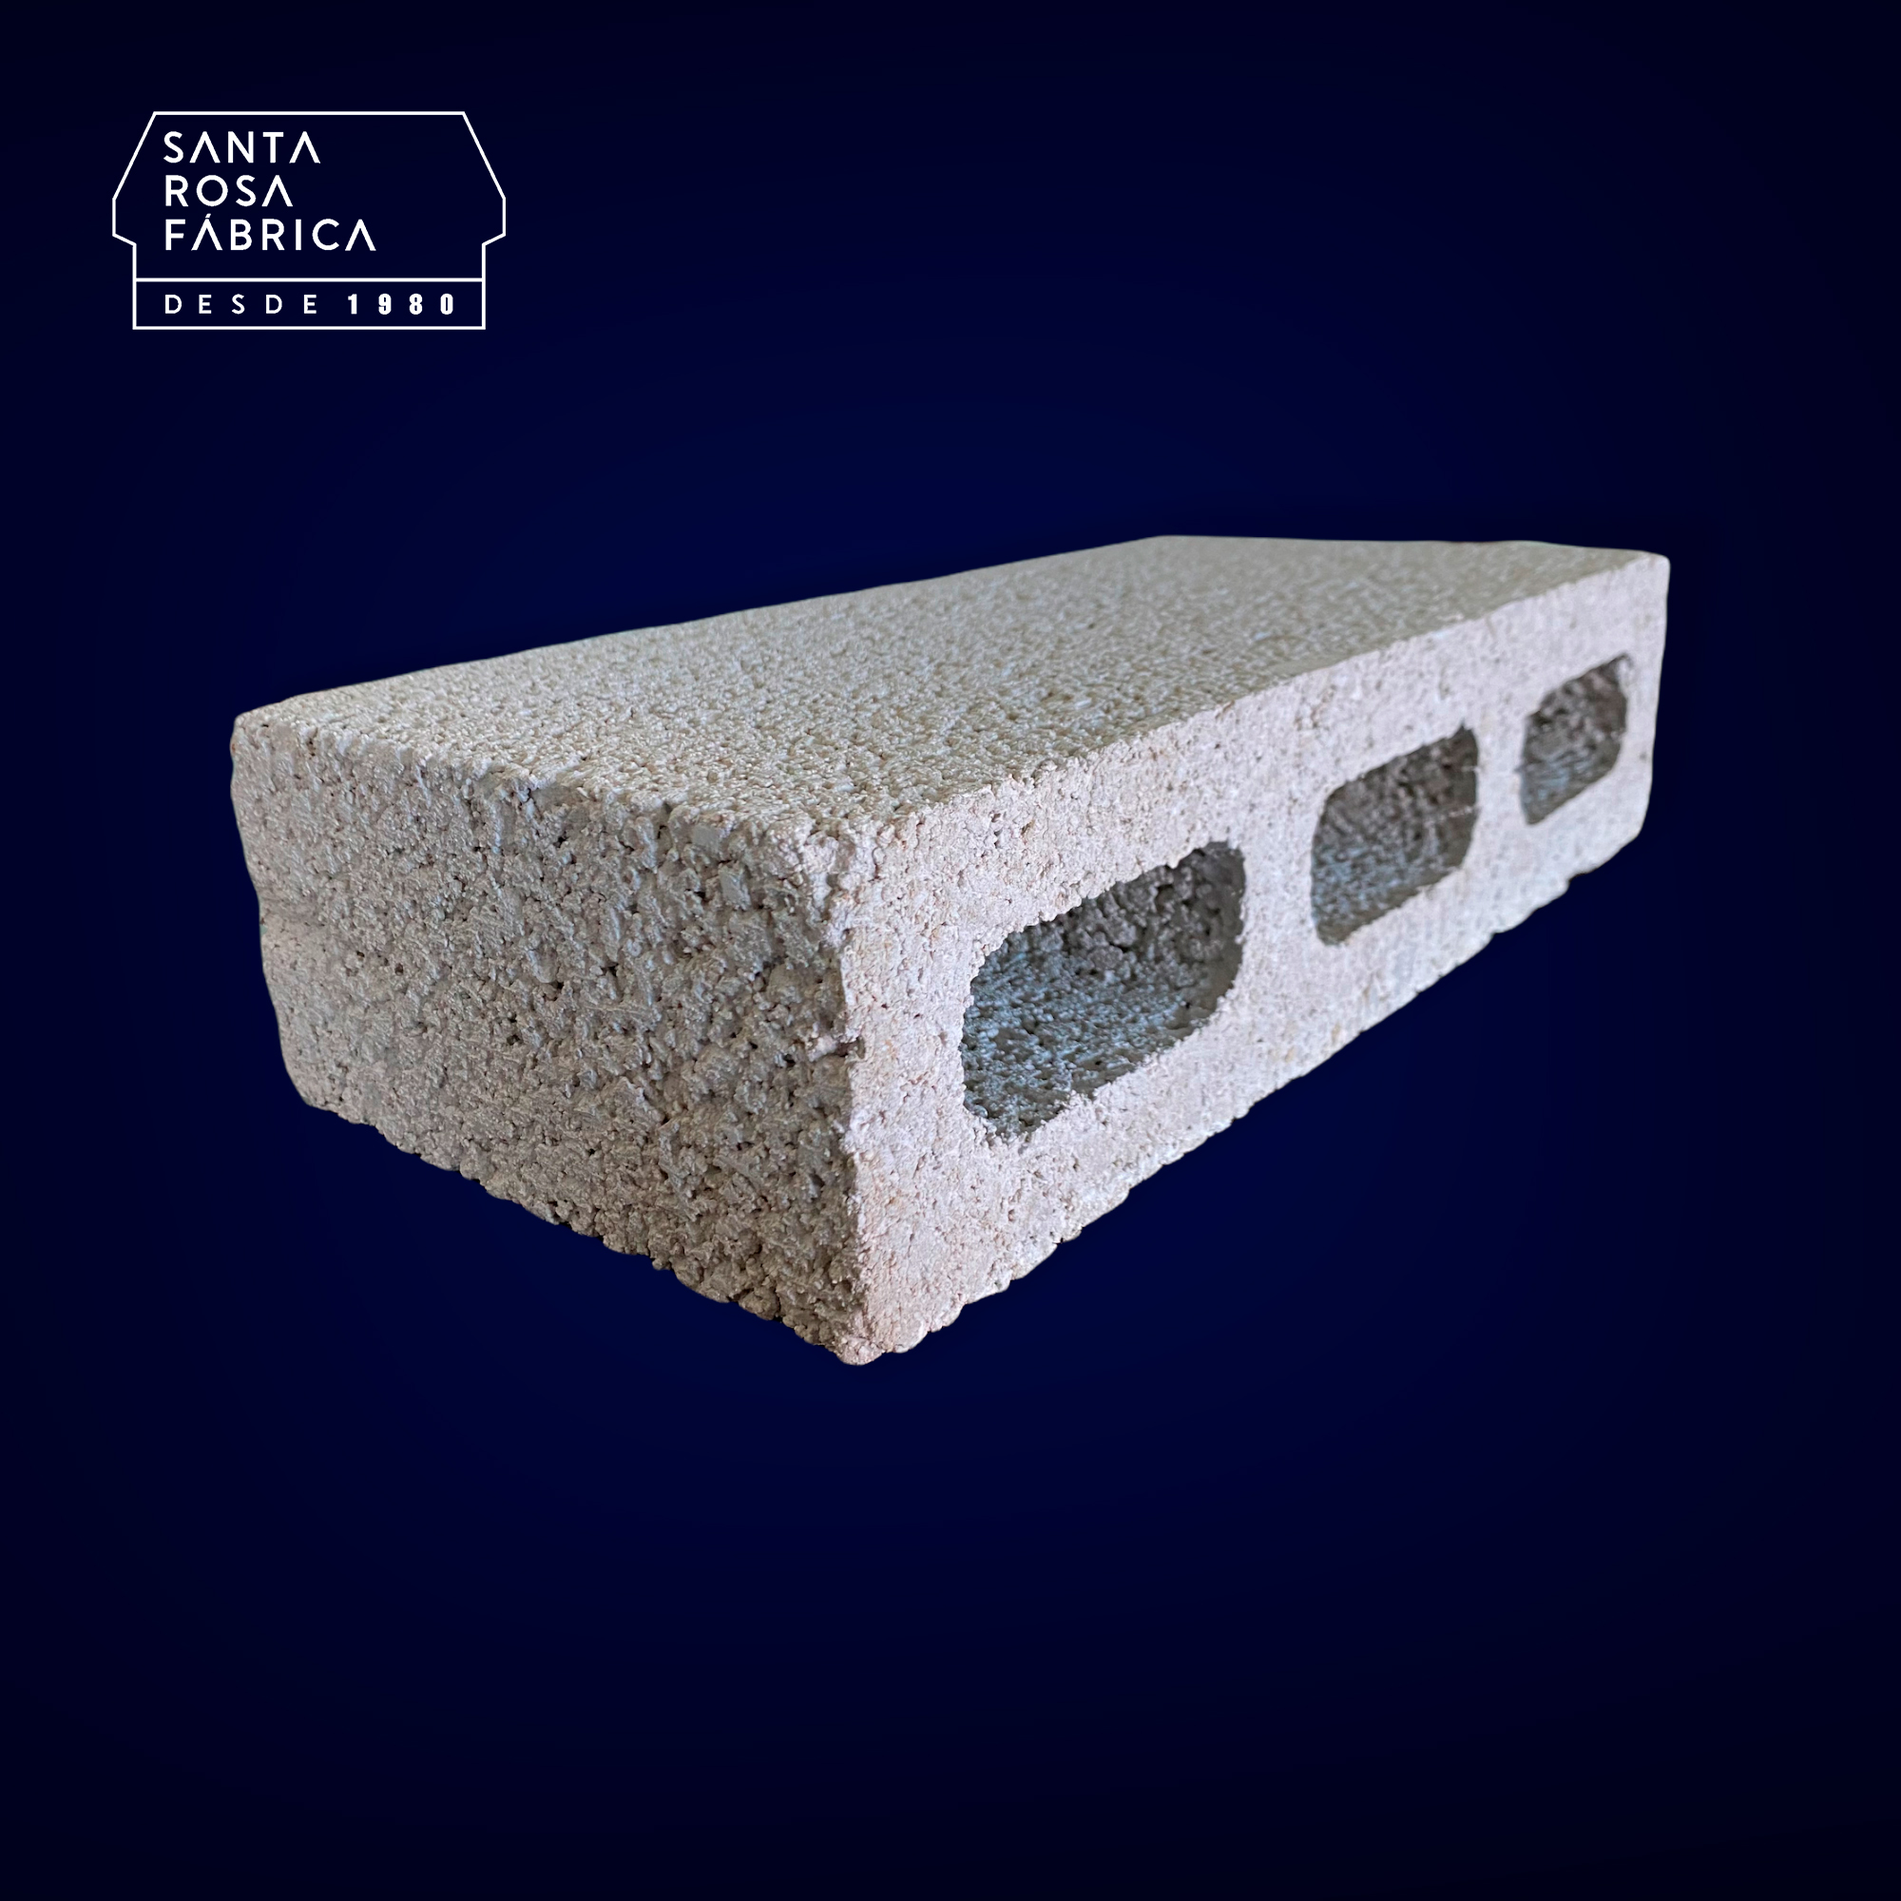
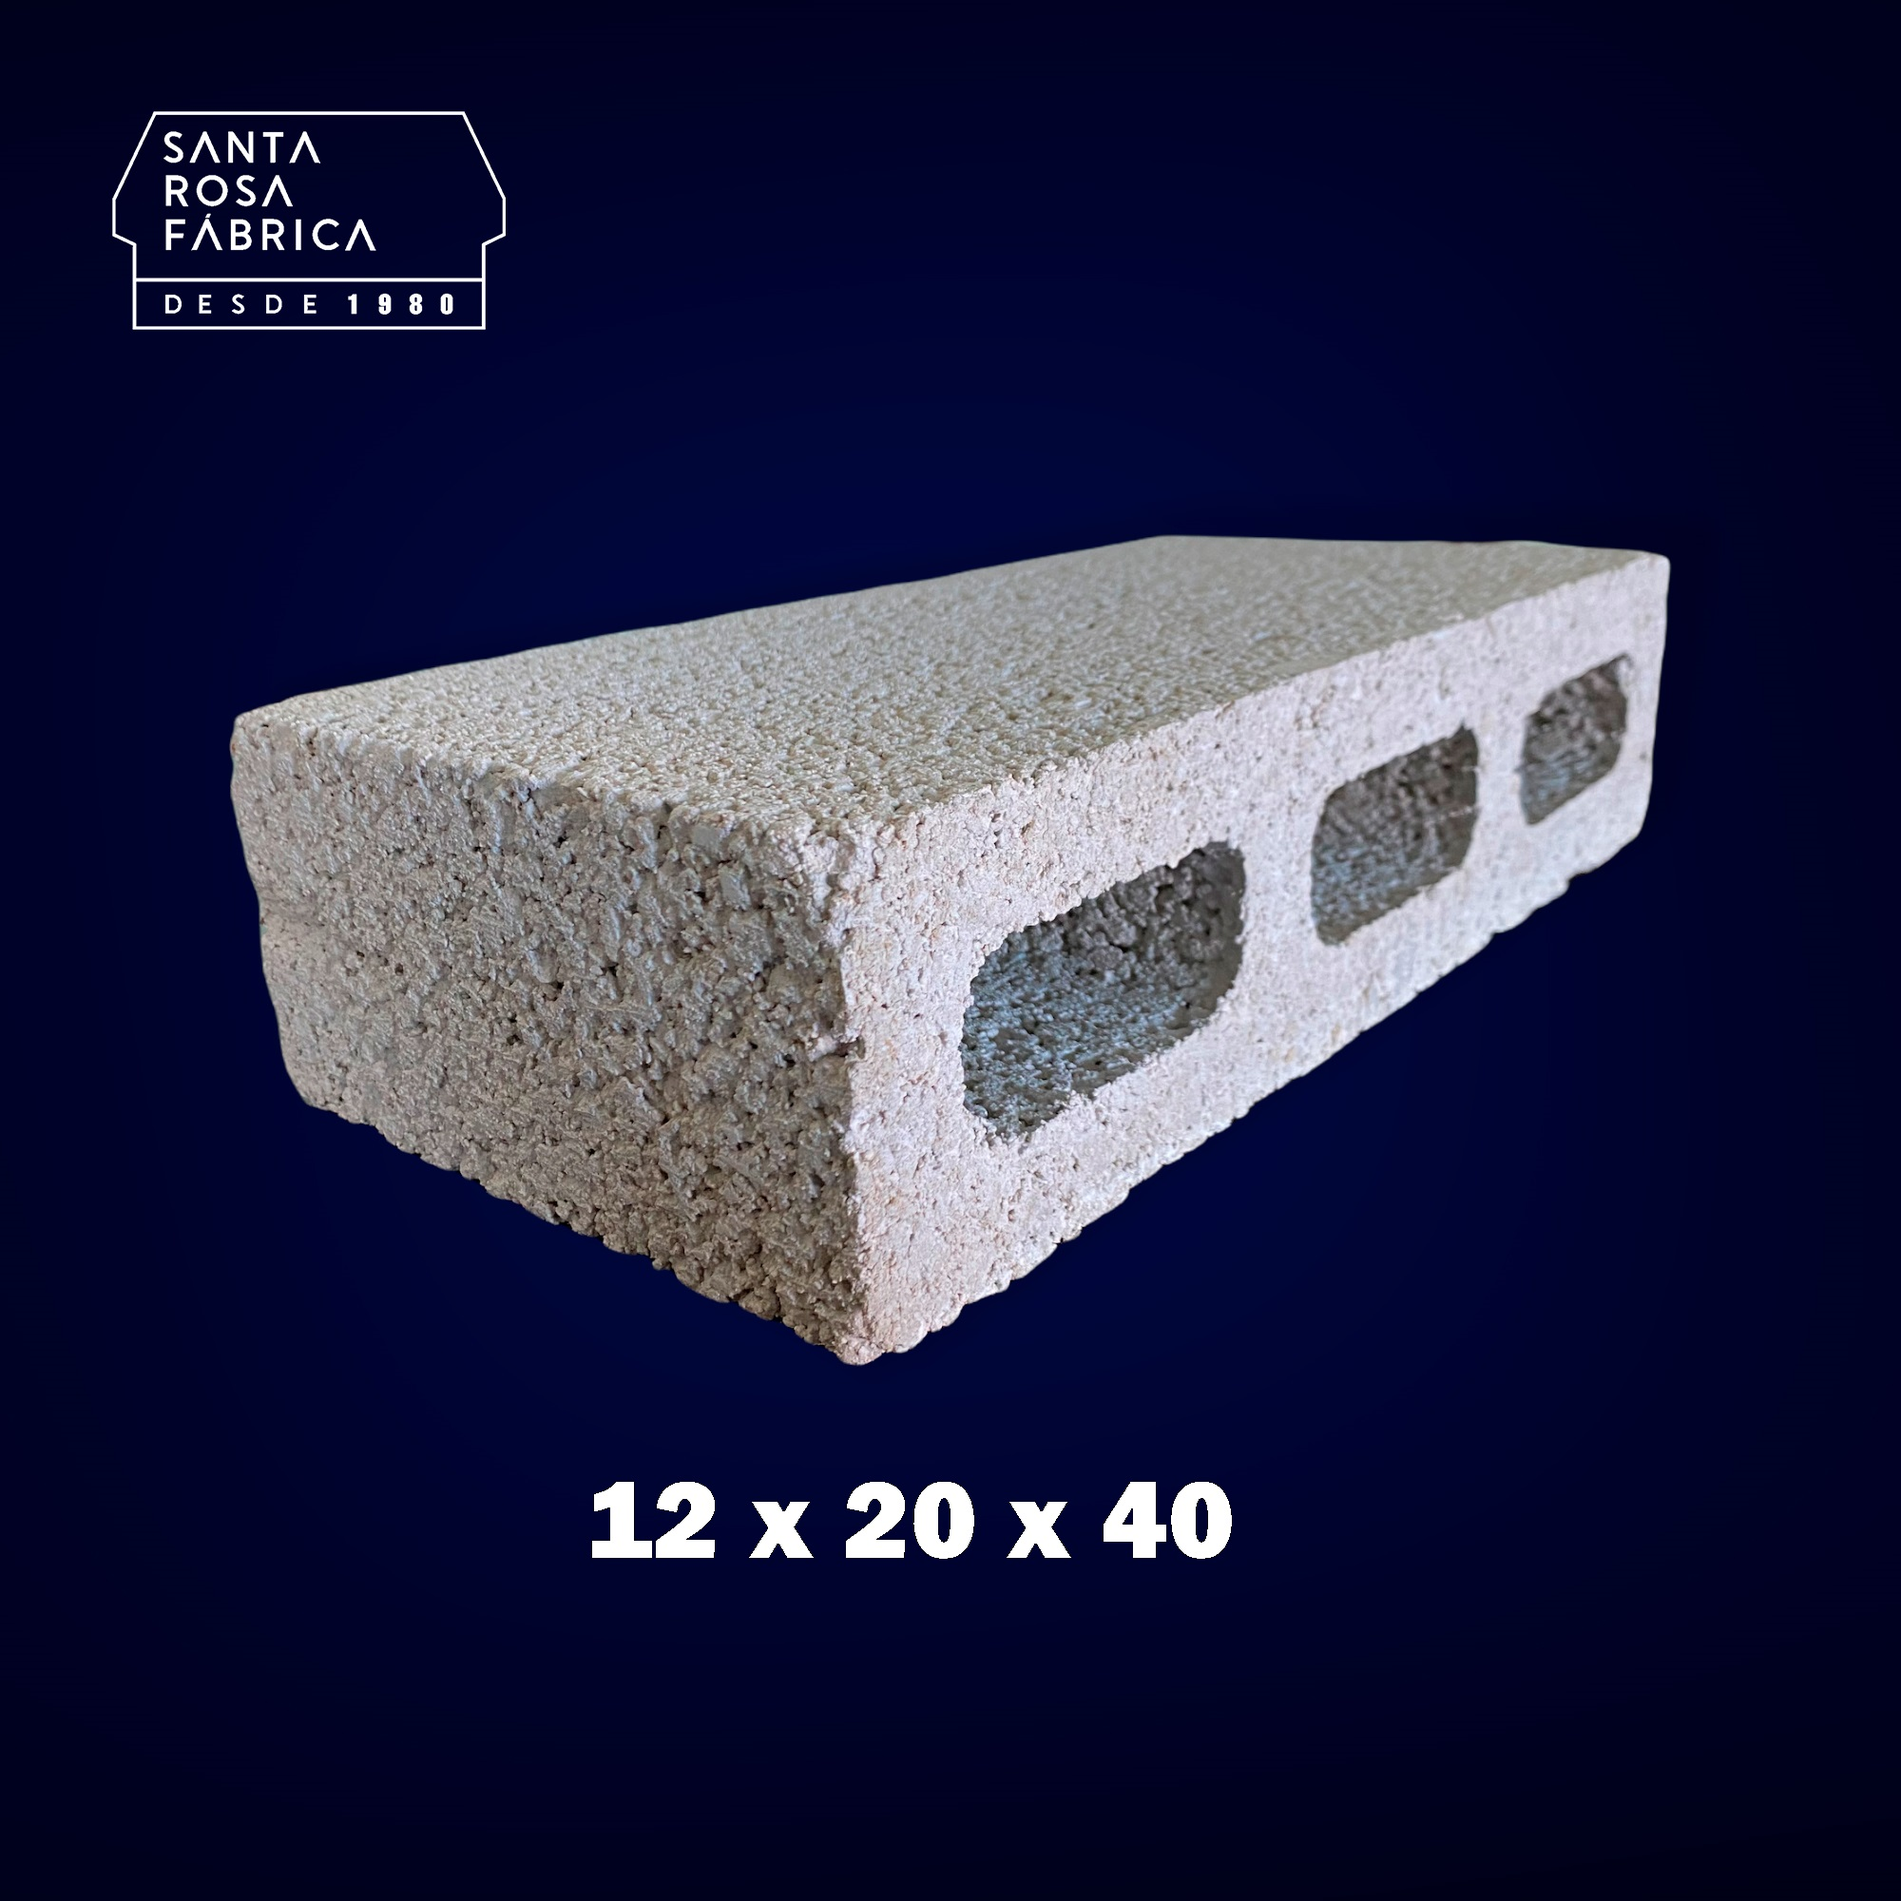
Actualizacion de Css y productos
se cambio el Css del proyecto, Se actualizaron los productos Vigas concreto, Bovedilla, poliestireno, caseton y placa, block de concreto

Changed region(s): [[0.31, 0.775, 0.651, 0.837]]

diff --git a/Productos-detalle-viga.html b/Productos-detalle-viga.html
@@ -122,15 +122,18 @@
                  <a href="assets/img/portfolio/Viga1.jpg" data-gall="portfolioGallery" class="portfolio-lightbox" title="Ver imagen"><img src="assets/img/portfolio/Viga1.jpg" class="img-fluid" alt=""></a>-->
 
                  <div class="swiper-slide">
-                  <a href="assets/img/portfolio/Viga1.jpg" data-gallery="portfolioGallery" class="portfolio-lightbox" title=""><img src="assets/img/portfolio/Viga1.jpg" title="Ver Imagen" class="img-fluid" alt=""></a>
+                  <a href="assets/img/portfolio/Viga1.png" data-gallery="portfolioGallery" class="portfolio-lightbox" title=""><img src="assets/img/portfolio/Viga1.png" title="Ver Imagen" class="img-fluid" alt=""></a>
                 </div>
 
                 <div class="swiper-slide">
-                  <a href="assets/img/portfolio/Viga2.jpg" data-gallery="portfolioGallery" class="portfolio-lightbox" title=""><img src="assets/img/portfolio/Viga2.jpg" title="Ver Imagen" class="img-fluid" alt=""></a>
+                  <a href="assets/img/portfolio/Viga2.png" data-gallery="portfolioGallery" class="portfolio-lightbox" title=""><img src="assets/img/portfolio/Viga2.png" title="Ver Imagen" class="img-fluid" alt=""></a>
                 </div>
 
                 <div class="swiper-slide">
                   <a href="assets/img/portfolio/Viga3.jpg" data-gallery="portfolioGallery" class="portfolio-lightbox" title=""><img src="assets/img/portfolio/Viga3.jpg" title="Ver Imagen" class="img-fluid" alt=""></a>
+                </div>
+                <div class="swiper-slide">
+                  <a href="assets/img/portfolio/Viga4.jpg" data-gallery="portfolioGallery" class="portfolio-lightbox" title=""><img src="assets/img/portfolio/Viga4.jpg" title="Ver Imagen" class="img-fluid" alt=""></a>
                 </div>
                 
               </div>
@@ -155,21 +158,17 @@
                 Las viguetas son elementos de concreto hidráulico responsables de la calidad de la losa y cuentan con una resistencia de 350 kg/cm2 y acero de A.R.F. de 17,500 Kg/cm2 de 5 mm de diámetro.<br>
 
                 <ul>
-                  <li><i class="bi bi-check2-circle"></i> <strong>VIGUETA DE 12 </strong><br>
-                    Peso: 25 kg/ml<br>
-                    Metros por Ton: 47<br>
-                    Medidas: 12 x 4 x 13.2<br>
+                  <li><i class="bi bi-check2-circle"></i> <strong>TIPOS DE VIGAS </strong><br>
+                    12-3<br>
+                    12-4<br>
+                    12-5<br>
+                    20-6<br>
                     
-                  </li>
-                  <li><i class="bi bi-check2-circle"></i> <strong>VIGUETA DE 20 </strong><br>
-                    Peso: 35 kg/ml<br>
-                    Metros por Ton: 33<br>
-                    Medidas: 20 x 4 x 13.2<br>
                   </li>
                   
                 </ul>
                 <br>
-                **En las imagenes encontrara la tabla de resistencias**
+                <!--**En las imagenes encontrara la tabla de resistencias**-->
               </p>
 
                     <!-- ======= BOTONES COTIZADOR y REGRESAR DEL PRODUCTO ======= -->

diff --git a/Productos-detalle-block.html b/Productos-detalle-block.html
@@ -126,11 +126,20 @@
                 </div>
 
                 <div class="swiper-slide">
-                  <a href="assets/img/portfolio/Block2.jpg" data-gallery="portfolioGallery" class="portfolio-lightbox" title=""><img src="assets/img/portfolio/Block2.jpg" title="Ver Imagen" class="img-fluid" alt=""></a>
+                  <a href="assets/img/portfolio/Block5.jpg" data-gallery="portfolioGallery" class="portfolio-lightbox" title=""><img src="assets/img/portfolio/Block5.jpg" title="Ver Imagen" class="img-fluid" alt=""></a>
                 </div>
 
                 <div class="swiper-slide">
-                  <a href="assets/img/portfolio/Block2.jpg" data-gallery="portfolioGallery" class="portfolio-lightbox" title=""><img src="assets/img/portfolio/Block3.jpg" title="Ver Imagen" class="img-fluid" alt=""></a>
+                  <a href="assets/img/portfolio/Block6.jpg" data-gallery="portfolioGallery" class="portfolio-lightbox" title=""><img src="assets/img/portfolio/Block6.jpg" title="Ver Imagen" class="img-fluid" alt=""></a>
+                </div>
+                <div class="swiper-slide">
+                  <a href="assets/img/portfolio/Block2.jpg" data-gallery="portfolioGallery" class="portfolio-lightbox" title=""><img src="assets/img/portfolio/Block2.jpg" title="Ver Imagen" class="img-fluid" alt=""></a>
+                </div>
+                <div class="swiper-slide">
+                  <a href="assets/img/portfolio/Block3.jpg" data-gallery="portfolioGallery" class="portfolio-lightbox" title=""><img src="assets/img/portfolio/Block3.jpg" title="Ver Imagen" class="img-fluid" alt=""></a>
+                </div>
+                <div class="swiper-slide">
+                  <a href="assets/img/portfolio/Block7.jpg" data-gallery="portfolioGallery" class="portfolio-lightbox" title=""><img src="assets/img/portfolio/Block7.jpg" title="Ver Imagen" class="img-fluid" alt=""></a>
                 </div>
                 
               </div>
@@ -151,13 +160,29 @@
             <div class="portfolio-description">
               <!--<h2>This is an example of portfolio detail</h2>-->
               <p>
+                Los bloques son elaborados con
+calidad y alta resistencia de
+concreto hidráulico
+vibrocomprimido, agregados
+limpios, con granulometría
+controlada y cemento de la mas
+alta calidad.
+Exceden la resistencia de 40
+Kg/cm², y cumplen con las
+medidas reglamentarias de +-
+2mm, tomando en consideración
+los 10 mm de la junta de
+albañilería; esto de acuerdo a la
+norma Mexicana “NOM-C10-1986”,
+para bloques sub-tipo RBH-40.<p>
 <br>
 Medidas del Block:<br>
 <ul>
-  <li><i class="bi bi-check2-circle"></i> 10X20X40</li>
-  <li><i class="bi bi-check2-circle"></i> 12X20X40</li>
+  <li><i class="bi bi-check2-circle"></i> 30X20X40</li>
+  <li><i class="bi bi-check2-circle"></i> 20X20X40</li>
   <li><i class="bi bi-check2-circle"></i> 15X20X40</li>
-  <li><i class="bi bi-check2-circle"></i> 20X20X41</li>
+  <li><i class="bi bi-check2-circle"></i> 12X20X40</li>
+  <li><i class="bi bi-check2-circle"></i> 10X20X40</li>
 </ul>
 
               </p>

diff --git a/assets/css/style.css b/assets/css/style.css
@@ -59,15 +59,13 @@ h1, h2, h3, h4, h5, h6, .font-primary {
   transition: all 0.5s;
   z-index: 997;
   transition: all 0.5s;
-  /*background:rgba(15, 5, 107, 0.247);*/ /*Color secundario del header*/
+  background:rgba(2, 2, 80, 0.91);
 }
 
-#header.header-transparent {
-  background: none;
-}
+
 
 #header.header-scrolled {
-  background: rgb(255, 255, 255); /*Color del desplagado del menú*/
+  background: rgba(2, 2, 80, 0.91);
   height: 105px; /*Se cambia margen del logo para que se vea chingón*/
 }
 
@@ -89,7 +87,7 @@ h1, h2, h3, h4, h5, h6, .font-primary {
 #header .logo img {
   padding: 0;
   margin: 0;
-  max-height: 95px; /*Se cambia el tamaño del logo*/
+  max-height: 110px; /*Se cambia el tamaño del logo*/
 }
 
 #main {
@@ -122,7 +120,7 @@ h1, h2, h3, h4, h5, h6, .font-primary {
   padding: 10px 0 10px 30px;
   font-family: "Open Sans", sans-serif;
   font-size: 14px;
-  color: rgb(74, 74, 74);  /* Cambio de color de letras menu*/
+  color: #fff;
   white-space: nowrap;
   transition: 0.3s;
 }
@@ -132,7 +130,7 @@ h1, h2, h3, h4, h5, h6, .font-primary {
   margin-left: 5px;
 }
 .navbar a:hover, .navbar .active, .navbar .active:focus, .navbar li:hover > a {
-  color: #0fddaa; /*Cambio de focus de letras menu*/
+  color: #a2cce3;
 }
 .navbar .dropdown ul {
   display: block;
@@ -290,8 +288,8 @@ h1, h2, h3, h4, h5, h6, .font-primary {
   top: 0;
   width: 130%;
   height: 95%;
-  background: linear-gradient(to right, rgba(9, 48, 133, 0), rgba(245, 240, 240, 0)), url("../img/portada.JPG") center top no-repeat;
-  z-index: 0;
+  background:  url("../img/portada.JPG") center top no-repeat; /*se elimina el color azul de contraste con la imagen*/
+  z-index: -10;
   border-radius: 0 0 50% 50%;
   transform: translateX(-50%) rotate(0deg);
 }
@@ -302,7 +300,7 @@ h1, h2, h3, h4, h5, h6, .font-primary {
   top: 0;
   width: 130%;
   height: 96%;
-  background: #eee9e900;/*Colo de curva en hero*/
+  background: rgba(2, 2, 80, 0.91);/*color para atenuar la imagen principal*/
   opacity: 0.3;
   z-index: 0;
   border-radius: 0 0 50% 50%;
@@ -320,8 +318,8 @@ h1, h2, h3, h4, h5, h6, .font-primary {
   right: 0;
 }
 #hero h2 {
-  color: #fff; /*Color de Bienvenidos a Santa Rosa*/
-  margin-bottom: 1px;
+  color: #fff;
+  margin-bottom: 30px;
   font-size: 48px;
   font-weight: 700;
 }
@@ -329,8 +327,8 @@ h1, h2, h3, h4, h5, h6, .font-primary {
   width: 80%;
   -webkit-animation-delay: 0.4s;
   animation-delay: 0.4s;
-  margin: 0 auto 1px auto;
-  color: #fff; /*Color de parrafo de descripción*/
+  margin: 0 auto 30px auto;
+  color: #fff;
 }
 #hero .carousel-control-prev, #hero .carousel-control-next {
   width: 10%;
@@ -555,11 +553,6 @@ section {
 .services {
   padding-bottom: 20px;
 }
-
-#racki{
-  text-align: center;
-}
-
 .services .icon-box {
   padding: 30px;
   position: relative;

diff --git a/Productos.html b/Productos.html
@@ -118,7 +118,7 @@
           <div class="col-lg-4 col-md-6 portfolio-wrap filter-viga">
             
             <div class="portfolio-item">
-            <a href="Productos-detalle-viga.html"> <img src="assets/img/portfolio/Viga1.jpg" class="img-fluid" alt=""></a> 
+            <a href="Productos-detalle-viga.html"> <img src="assets/img/portfolio/Viga5.jpg" class="img-fluid" alt=""></a> 
                
             </div>
           
@@ -131,7 +131,7 @@
           <div class="col-lg-4 col-md-6 portfolio-wrap filter-poli">
             
             <div class="portfolio-item">
-            <a href="Productos-detalle-bovepoli.html"> <img src="assets/img/portfolio/Bovedilla-poliestireno1.jpg" class="img-fluid" alt=""></a> 
+            <a href="Productos-detalle-bovepoli.html"> <img src="assets/img/portfolio/Bovedilla-poliestireno4.jpg" class="img-fluid" alt=""></a> 
                
             </div>
           
@@ -170,7 +170,7 @@
           <div class="col-lg-4 col-md-6 portfolio-wrap filter-block">
             
             <div class="portfolio-item">
-            <a href="Productos-detalle-block.html"> <img src="assets/img/portfolio/Block1.jpg" class="img-fluid" alt=""></a> 
+            <a href="Productos-detalle-block.html"> <img src="assets/img/portfolio/Block4.jpg" class="img-fluid" alt=""></a> 
                
             </div>
           

diff --git a/Productos-detalle-placapoli.html b/Productos-detalle-placapoli.html
@@ -151,11 +151,15 @@
             <div class="portfolio-description">
               <!--<h2>This is an example of portfolio detail</h2>-->
               <p>
-                El Poliestireno Expandido se define técnicamente como:
-                
-“Material plástico celular rígido fabricado a partir del moldeo de perlas
-pre-expandidas de poliestireno. Expandible o uno de sus copolímeros, que
-presentan una estructura celular cerrada y rellena de aire”.
+                La placa es una pieza cortada para aligerar
+losas, hacer juntas constructivas, así como
+aislamiento térmico y acústico, plafones o
+cimbras muertas, generalmente en forma
+de prisma rectangular. Es utilizado entre
+muro y muro para crear juntas
+constructivas flexibles, como falsos
+plafones, en la decoración para hacer
+letreros y formas capricho.<br>
 Por su versatilidad y facilidad de conformado tiene características técnicas que le permiten sea destinado a gran cantidad de aplicaciones, entre
 las que podemos mencionar:
 

diff --git a/Productos-detalle-bovepoli.html b/Productos-detalle-bovepoli.html
@@ -157,6 +157,16 @@ como molde, con las dimensiones adecuadas y necesarias para trabajar
 en los sistemas constructivos de vigueta pretensada, que son utilizados en
 la construcción de losas de azotea y entrepiso propocionándole ligereza y
 una gran resistencia estructural trabajando en un solo sentido.<br>
+Con el empleo de las bovedillas en
+sus diferentes formas, se pueden
+reemplazar volúmenes de hormigón
+al final más económicas. Las
+fabricamos de acuerdo con las
+necesidades del cliente con las
+especificaciones requeridas
+además de la significativa
+reducción de costos gracias a este
+tipo de materiales.<br>
 
 
                     <!-- ======= BOTONES COTIZADOR y REGRESAR DEL PRODUCTO ======= -->
